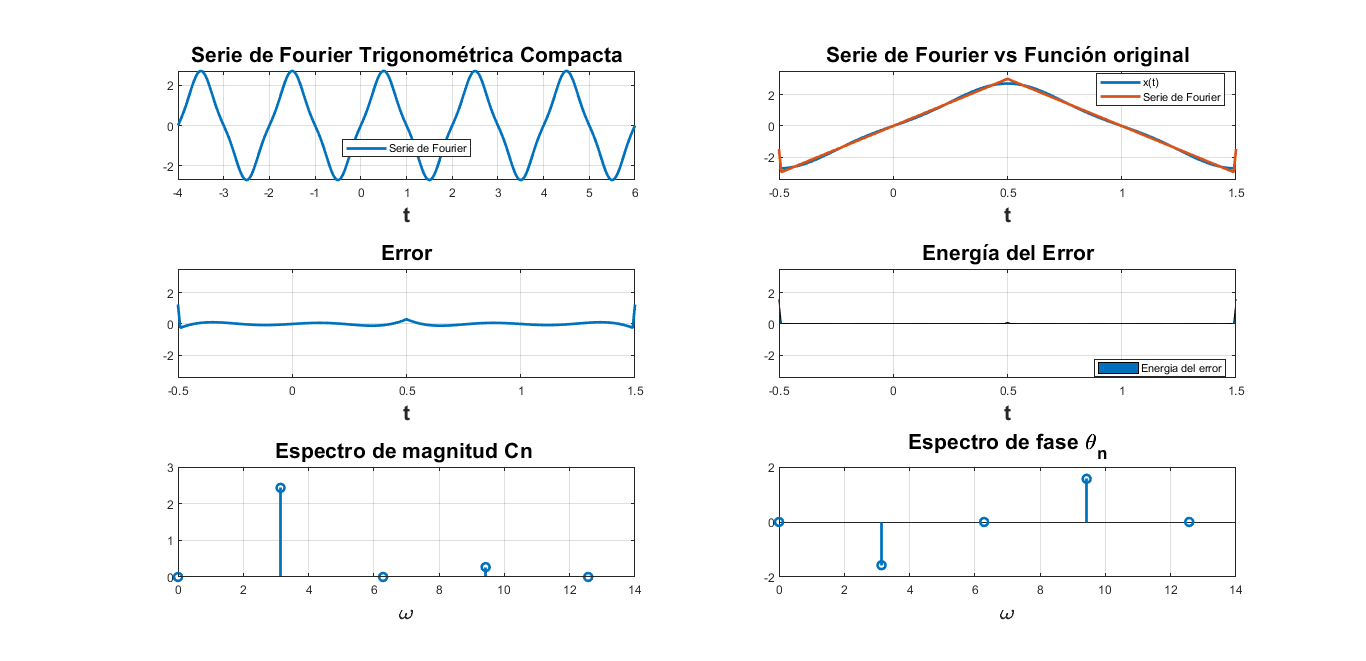
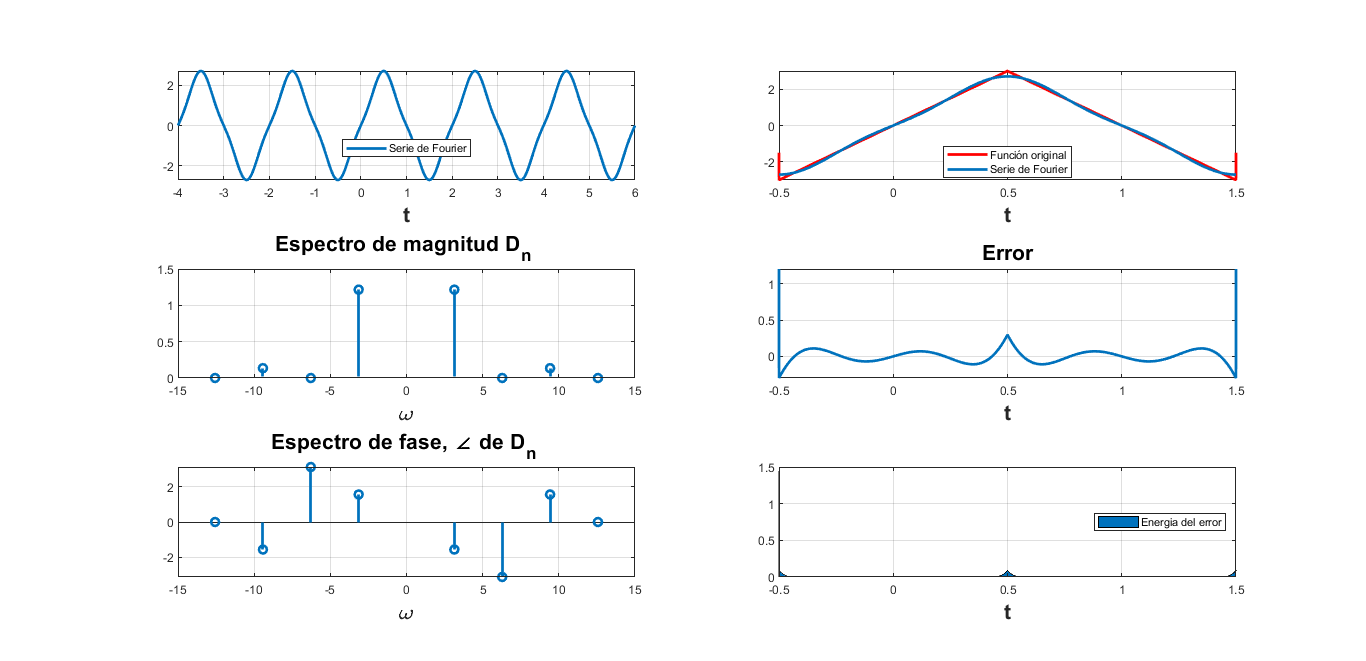
REV2

diff --git a/ASySPrac05CarlosMartinez.html b/ASySPrac05CarlosMartinez.html
@@ -6,7 +6,7 @@
    <!--
 This HTML was auto-generated from MATLAB code.
 To make changes, update the MATLAB code and republish this document.
-      --><title>ASySPrac05CarlosMartinez</title><meta name="generator" content="MATLAB 9.4"><link rel="schema.DC" href="http://purl.org/dc/elements/1.1/"><meta name="DC.date" content="2018-11-23"><meta name="DC.source" content="ASySPrac05CarlosMartinez.m"><style type="text/css">
+      --><title>ASySPrac05CarlosMartinez</title><meta name="generator" content="MATLAB 9.4"><link rel="schema.DC" href="http://purl.org/dc/elements/1.1/"><meta name="DC.date" content="2018-11-24"><meta name="DC.source" content="ASySPrac05CarlosMartinez.m"><style type="text/css">
 html,body,div,span,applet,object,iframe,h1,h2,h3,h4,h5,h6,p,blockquote,pre,a,abbr,acronym,address,big,cite,code,del,dfn,em,font,img,ins,kbd,q,s,samp,small,strike,strong,sub,sup,tt,var,b,u,i,center,dl,dt,dd,ol,ul,li,fieldset,form,label,legend,table,caption,tbody,tfoot,thead,tr,th,td{margin:0;padding:0;border:0;outline:0;font-size:100%;vertical-align:baseline;background:transparent}body{line-height:1}ol,ul{list-style:none}blockquote,q{quotes:none}blockquote:before,blockquote:after,q:before,q:after{content:'';content:none}:focus{outine:0}ins{text-decoration:none}del{text-decoration:line-through}table{border-collapse:collapse;border-spacing:0}
 
 html { min-height:100%; margin-bottom:1px; }
@@ -66,12 +66,172 @@ table td { padding:7px 5px; text-align:left; vertical-align:top; border:1px soli
 
 
 
-  </style></head><body><div class="content"><h1></h1><!--introduction--><p><img vspace="5" hspace="5" src="portada.png" alt=""> </p><!--/introduction--><h2>Contents</h2><div><ul><li><a href="#1">Objetivos</a></li><li><a href="#2">Desarrollo</a></li><li><a href="#3">Ejemplo 6.1</a></li><li><a href="#4">Ejemplo 6.2</a></li><li><a href="#5">Ejemplo 6.4</a></li><li><a href="#6">Apendice A</a></li><li><a href="#7">Referencias</a></li></ul></div><h2 id="1">Objetivos</h2><h2 id="2">Desarrollo</h2><p>Se plantea la soluci&oacute;n a siete problemas, donde cada uno requiere del uso de Matlab como herramienta de c&aacute;lculo y an&aacute;lisis.</p><p>Para cada problema debes de realizar</p><div><ol><li>Realizar el programa de la serie que se indica</li><li>Gr&aacute;fica de la serie de Fourier en un intervalo que muestre 5 repeticiones</li><li>Gr&aacute;fica de la se&ntilde;al y la serie de Fourier para 4 armonicos</li><li>Gr&aacute;fica del error</li><li>Gr&aacute;fica de la energ&iacute;a del error</li><li>Espectro de magnitud  para 4 armonicos</li><li>Espectro de fase para 4 armonicos</li><li>Todo lo anterior para 15 armonicos</li></ol></div><h2 id="3">Ejemplo 6.1</h2><p>Con serie  y espectro trigonometrico, no es necesario entregar el c&oacute;digo, solo la aplicaci&oacute;n al problema especifico, debe de indicar la funci&oacute;n y los valores de sus coeficientes (sin incluir el procedimiento)</p><div><ul><li>Funci&oacute;n: <img src="ASySPrac05CarlosMartinez_eq13118065478009486998.png" alt="$e^{-t/2}$"></li><li><img src="ASySPrac05CarlosMartinez_eq11824749991346166048.png" alt="$T_{0}=\pi$">; <img src="ASySPrac05CarlosMartinez_eq08880996788032574097.png" alt="$\omega_{0}=2$"></li><li><img src="ASySPrac05CarlosMartinez_eq08880996788032574097.png" alt="$\omega_{0}=2$"></li><li><img src="ASySPrac05CarlosMartinez_eq04052079667178548877.png" alt="$a_{0}=\frac{-2}{\pi}(e^{\frac{-\pi}{2}}-1)=0.5042$"></li><li><img src="ASySPrac05CarlosMartinez_eq00625565354475340822.png" alt="$a_{n}=0.504(\frac{2}{1+16n^2})$"></li><li><img src="ASySPrac05CarlosMartinez_eq04108984236777671564.png" alt="$b_{n}=0.504(\frac{8n}{1+16n^2})$"></li><li><img src="ASySPrac05CarlosMartinez_eq06349420774633397513.png" alt="$Sf(t)=0.504+[1+\sum_{n=1}^{\infty}\frac{2}{1+16n^2}(\cos(2nt)+4n\sin(2nt))]$"></li></ul></div><p><b>4 ARMONICOS</b></p><p><img vspace="5" hspace="5" src="E_6_1.PNG" alt=""> </p><p><b>15 ARMONICOS</b></p><p><img vspace="5" hspace="5" src="E_6_1_2.PNG" alt=""> </p><h2 id="4">Ejemplo 6.2</h2><p>Con serie y espectro exponencial y A=3, no es necesario entregar el c&oacute;digo, solo la aplicaci&oacute;n al problema especifico, debe de indicar la funci&oacute;n y los valores de sus coeficientes (sin incluir el procedimiento).</p><div><ul><li>Funci&oacute;n</li></ul></div><p><img vspace="5" hspace="5" src="EC6_2.gif" alt=""> </p><div><ul><li><img src="ASySPrac05CarlosMartinez_eq16266160074245195707.png" alt="$T_{0}=2$">; <img src="ASySPrac05CarlosMartinez_eq16968267925928478875.png" alt="$\omega_{0}=\pi$"></li><li><img src="ASySPrac05CarlosMartinez_eq12351201383937949383.png" alt="$a_{0}=0$"></li><li><img src="ASySPrac05CarlosMartinez_eq18033571242204942981.png" alt="$a_{n}=0$"></li><li><img src="ASySPrac05CarlosMartinez_eq10518071608321475585.png" alt="$b_{n}=\frac{24}{(n\pi)^2} \sin(\frac{n\pi}{2})$"></li><li><img src="ASySPrac05CarlosMartinez_eq07742563118262782240.png" alt="$Sf(t)=\frac{24}{\pi^2}\sum_{n=1}^{\infty }[\cos(n\pi t+\theta_n)]$"></li></ul></div><p><b>4 ARMONICOS</b></p><p><img vspace="5" hspace="5" src="E_6_2_1.PNG" alt=""> </p><p><b>15 ARMONICOS</b></p><p><img vspace="5" hspace="5" src="E_6_2_2.PNG" alt=""> </p><h2 id="5">Ejemplo 6.4</h2><p>Con serie y espectro exponencial,  no es necesario entregar el c&oacute;digo, solo la aplicaci&oacute;n al problema especifico, debe de indicar la funci&oacute;n y los valores de sus coeficientes (sin incluir el procedimiento)</p><div><ul><li>Funci&oacute;n: <img src="ASySPrac05CarlosMartinez_eq06509375914648683501.png" alt="$rect(\frac{t}{\pi})$"></li><li><img src="ASySPrac05CarlosMartinez_eq06506973037403274391.png" alt="$T_{0}=2\pi$">; <img src="ASySPrac05CarlosMartinez_eq12751951983705960039.png" alt="$\omega_{0}=1$"></li><li><img src="ASySPrac05CarlosMartinez_eq00220859804390540809.png" alt="$a_{0}=\frac{1}{2}$"></li><li><img src="ASySPrac05CarlosMartinez_eq18169518009886506725.png" alt="$a_{n}=\frac{2}{n\pi} \sin(\frac{n\pi}{2})$"></li><li><img src="ASySPrac05CarlosMartinez_eq11244947500573341312.png" alt="$b_{n}=0$"></li><li><img src="ASySPrac05CarlosMartinez_eq04844439589351996345.png" alt="$Sf(t)=\frac{1}{2}+\frac{2}{\pi}\sum_{n=1}^{\infty }[\sin(\frac{n\pi}{2})\cos(nt+\theta_n)]$"></li></ul></div><h2 id="6">Apendice A</h2><p>Puede consultar los codigos de programaci&oacute;n de cada uno de los ejercicios en la siguiente <a href="https://drive.google.com/open?id=1M2Llttzbg_FAM7OpAit81kZCiaLKFyxO">carpeta</a></p><h2 id="7">Referencias</h2><div><ol><li>Lathi, B. (2005). <i>Linear Systems and Signals</i>. E.U.A.: Oxford University Press</li><li>Moore, H. (2009). <i>MATLAB for Engineers.</i> E.U.A.: Prentice Hall.</li><li>Ashok Ambardar. (1999). Analog and Digital Signal Processing. M&eacute;xico D. F., M&eacute;xico: BROOKS/COLE PUBLISHING COMPANY.</li><li>Hwei P. Hsu. (2013). Se&ntilde;ales y Sistemas. M&eacute;xico D. F., M&eacute;xico: McGrawHill.</li></ol></div><p class="footer"><br><a href="https://www.mathworks.com/products/matlab/">Published with MATLAB&reg; R2018a</a><br></p></div><!--
+  </style></head><body><div class="content"><h1></h1><!--introduction--><p><img vspace="5" hspace="5" src="portada.png" alt=""> </p><!--/introduction--><h2>Contents</h2><div><ul><li><a href="#1">Objetivos</a></li><li><a href="#2">Introducci&oacute;n</a></li><li><a href="#6">Desarrollo</a></li><li><a href="#7">Ejemplo 6.1</a></li><li><a href="#8">Ejemplo 6.2</a></li><li><a href="#9">Ejemplo 6.4</a></li><li><a href="#10">Ejemplo 6.5</a></li><li><a href="#11">Ejemplo 6.7</a></li><li><a href="#12">Apendice A</a></li><li><a href="#13">Referencias</a></li></ul></div><h2 id="1">Objetivos</h2><div><ul><li>Realizar gr&aacute;ficas de series de Fourier exponenciales y trigonom&eacute;tricas en tiempo continuo</li><li>Manipulaci&oacute;n de instrucciones en MATLAB</li><li>Calculo n&uacute;merico de los coeficientes de Fourier</li></ul></div><h2 id="2">Introducci&oacute;n</h2><p><b>C&aacute;lculo Num&eacute;rico de <img src="ASySPrac05CarlosMartinez_eq03133091047579261816.png" alt="$$D_{n}$"></b></p><p>Podemos calcular los coeficientes <img src="ASySPrac05CarlosMartinez_eq03133091047579261816.png" alt="$$D_{n}$"> utilizando la DFT (Transformada en Tiempo Discreto de Fourier), la cual utiliza valores de una se&ntilde;al peri&oacute;dica <img src="ASySPrac05CarlosMartinez_eq06787901769351252476.png" alt="$$x(t)$"> en un periodo. El intervalo de muestra es <img src="ASySPrac05CarlosMartinez_eq02589007036273142695.png" alt="$$T$"> segundos. Por ende, no hay un <img src="ASySPrac05CarlosMartinez_eq08690732402086695052.png" alt="$$N_{0}=\frac{T_{0}}{T}$"> n&uacute;mero de valores en un periodo <img src="ASySPrac05CarlosMartinez_eq06981539848353791525.png" alt="$$T_{0}$">. Para encontrar la relaci&oacute;n entre <img src="ASySPrac05CarlosMartinez_eq05748192556839433106.png" alt="$$D_{0}$"> y los valores de <img src="ASySPrac05CarlosMartinez_eq06787901769351252476.png" alt="$$x(t)$">, consid&eacute;rese lo siguiente:</p><p><img src="ASySPrac05CarlosMartinez_eq07636666084664264127.png" alt="$$D_{n}= \frac{1}{T_{0}} \int_{T_{0}}^{ }x(t) e^{-jn\omega_{0}t} dt$"></p><p><img src="ASySPrac05CarlosMartinez_eq06895279643630208614.png" alt="$$=\lim_{T\rightarrow 0}\frac{1}{N_{0}T}\sum_{k=0}^{N_{0}-1}x(kT)e^{-jn\omega _{0}kT} T$"></p><p><img src="ASySPrac05CarlosMartinez_eq08715929903193946711.png" alt="$$=\lim_{T\rightarrow 0}\frac{1}{N_{0}}\sum_{k=0}^{N_{0}-1}x(kT)e^{-jn\Omega _{0}k}$"></p><p>(a)</p><p>Donde <img src="ASySPrac05CarlosMartinez_eq03720239181881603886.png" alt="$$x(KT)$"> es el <img src="ASySPrac05CarlosMartinez_eq15696396272955440062.png" alt="$$k$">-&eacute;simo valor de <img src="ASySPrac05CarlosMartinez_eq06787901769351252476.png" alt="$$x(t)$"> y</p><p><img src="ASySPrac05CarlosMartinez_eq08690732402086695052.png" alt="$$N_{0}=\frac{T_{0}}{T}$">   <img src="ASySPrac05CarlosMartinez_eq07215256263371917978.png" alt="$$\Omega_{0}=\omega_{0}T=\frac{2\pi}{N_{0}}$"></p><p>(b)</p><p>En la pr&aacute;ctica, es imposible hacer que <img src="ASySPrac05CarlosMartinez_eq15246491081815649258.png" alt="$$T\rightarrow 0$"> al calcular el lado derecho de la integral de la ecuaci&oacute;n (a). Se puede hacer una <img src="ASySPrac05CarlosMartinez_eq02589007036273142695.png" alt="$$T$"> peque&ntilde;a, aproximarla, pero no hacerla 0, lo cual causar&aacute; que los valores se incrementen sin l&iacute;mite. Entonces, se puede ignorar este l&iacute;mite en <img src="ASySPrac05CarlosMartinez_eq02589007036273142695.png" alt="$$T$"> en la ecuaci&oacute;n (a) con el entendimiento impl&iacute;cito de que <img src="ASySPrac05CarlosMartinez_eq02589007036273142695.png" alt="$$T$"> es razonablemente peque&ntilde;o. Cualquier valor no igual a cero de <img src="ASySPrac05CarlosMartinez_eq02589007036273142695.png" alt="$$T$"> causar&aacute; un error de c&aacute;lculo, el cual es inevitable en cualquier evaluaci&oacute;n num&eacute;rica de la integral. El error resultante del valor no igual a cero <img src="ASySPrac05CarlosMartinez_eq02589007036273142695.png" alt="$$T$"> se llama error de interferencia.</p><p><img src="ASySPrac05CarlosMartinez_eq12280995613715959205.png" alt="$$D_{n}=\frac{1}{N_{0}}\sum_{k=0}^{N_{0}-1}x(kT)e^{-jn\Omega _{0}k}$"></p><p>(c)</p><p>Ahora, de la ecuaci&oacute;n (b), <img src="ASySPrac05CarlosMartinez_eq10515223849776201851.png" alt="$$\Omega_{0}N_{0}=2\pi$">. Por ende, <img src="ASySPrac05CarlosMartinez_eq13755088688593220289.png" alt="$$e^{j\Omega_{0}(k+N_{0})}=e^{j\Omega_{0}k}$">, y por la ecuaci&oacute;n (c), se determina que</p><p><img src="ASySPrac05CarlosMartinez_eq00108646522931943518.png" alt="$$D_{n+N_{0}}=D_{0}$"></p><p>(d)</p><p>La propiedad de periodicidad, <img src="ASySPrac05CarlosMartinez_eq18318370555517747369.png" alt="$$D_{n+N_{0}}=D_{n}$">, establece que m&aacute;s all&aacute; de <img src="ASySPrac05CarlosMartinez_eq02263361073932095650.png" alt="$$n=\frac{N_{0}}{2}$">, los coeficientes representan valores para <img src="ASySPrac05CarlosMartinez_eq12418905687293652924.png" alt="$$n$"> negativas. Por ejemplo, cuando <img src="ASySPrac05CarlosMartinez_eq07114384757973001169.png" alt="$$N_{0}=32, D_{17}=D_{-15},D_{18}=D_{-14}, ..., D_{31}=D_{-1}$">. El ciclo se repite de nuevo desde <img src="ASySPrac05CarlosMartinez_eq15275483857193680460.png" alt="$$n=32$"> en adelante.</p><p>Una vez establecido lo anterior, se proceder&aacute; a utilizar el algoritmo de la Transformada R&aacute;pida de Fourier.</p><p><b>Ejemplo C6.4</b> Realizar el c&aacute;lculo y graficar los espectros trigonom&eacute;tricos y exponenciales de Fourier para la se&ntilde;al peri&oacute;dica en la figura 1).</p><p><img vspace="5" hspace="5" src="fig6_2.PNG" alt=""> </p><p>Figura 1): <img src="ASySPrac05CarlosMartinez_eq06992645021434473590.png" alt="$$e^{\frac{-t}{2}}$"></p><p>Los valores de <img src="ASySPrac05CarlosMartinez_eq06787901769351252476.png" alt="$$x(t)$"> comienzan en <img src="ASySPrac05CarlosMartinez_eq13843076059956794891.png" alt="$$t=0$"> y el &uacute;ltimo <img src="ASySPrac05CarlosMartinez_eq10571137224007435704.png" alt="$$N_{0}$">-&eacute;simo valor est&aacute; en <img src="ASySPrac05CarlosMartinez_eq03844446236828016518.png" alt="$$t=T_{0}-t$">. En los puntos de discontinuidades, el valor de la se&ntilde;al es el promedio de los valores de la funci&oacute;n en ambos lados de la discontinuidad. Por ello, el valor de la se&ntilde;al en <img src="ASySPrac05CarlosMartinez_eq13843076059956794891.png" alt="$$t=0$"> no es <img src="ASySPrac05CarlosMartinez_eq16330746974462534095.png" alt="$$1$">, sino <img src="ASySPrac05CarlosMartinez_eq03400279375274242494.png" alt="$$\frac{e^{\frac{-\pi}{2}}+1}{2}=0.604$">.</p><p>Para determinar el valor <img src="ASySPrac05CarlosMartinez_eq10571137224007435704.png" alt="$$N_{0}$">, se requiere que <img src="ASySPrac05CarlosMartinez_eq03133091047579261816.png" alt="$$D_{n}$"> para <img src="ASySPrac05CarlosMartinez_eq12069270178252804518.png" alt="$$n\geq \frac{N_{0}}{2}$"> sea omisible. Debido a que <img src="ASySPrac05CarlosMartinez_eq06787901769351252476.png" alt="$$x(t)$"> tiene una discontinuidad de salto, <img src="ASySPrac05CarlosMartinez_eq03133091047579261816.png" alt="$$D_{n}$"> decrece lentamente tal como <img src="ASySPrac05CarlosMartinez_eq07780359900859401847.png" alt="$$\frac{1}{n}$">. Por consiguiente, escoger <img src="ASySPrac05CarlosMartinez_eq01860315777495353505.png" alt="$$N_{0}=200$"> es aceptable porque el <i>cien</i> <img src="ASySPrac05CarlosMartinez_eq08790595157310007747.png" alt="$$\frac{N_{0}}{2}$"> <i>&eacute;simo</i> arm&oacute;nico es aproximadamente <img src="ASySPrac05CarlosMartinez_eq03937376032575191794.png" alt="$$1\%$"> del fundamental. Sin embargo, tambi&eacute;n se requiere <img src="ASySPrac05CarlosMartinez_eq10571137224007435704.png" alt="$$N_{0}$"> con potencia <img src="ASySPrac05CarlosMartinez_eq11130003120088913495.png" alt="$$2$">. Por ello, se toma <img src="ASySPrac05CarlosMartinez_eq14246196360969256404.png" alt="$$N_{0}=256=2$">.</p><p><b>Primero, se establecen los par&aacute;metros b&aacute;sicos:</b></p><pre class="codeinput">T_0=pi;
+N_0=256;
+T=T_0/N_0;
+t=(0:T:T*(N_0-1))';
+M=10;
+x=exp(-t/2);
+x(1)=(exp(-pi/2)+1)/2;
+</pre><p><b>Despu&eacute;s, la Transformada en Tiempo Discreto de Fourier se calcula en t&eacute;rminos de la funci&oacute;n <img src="ASySPrac05CarlosMartinez_eq17080548601280760336.png" alt="$$fft$">, se usa para aproximar el espectro exponencial de Fourier comprendido entre <img src="ASySPrac05CarlosMartinez_eq02628528386322507141.png" alt="$$-M\leq n \leq M$"></b></p><pre class="codeinput">D_n = fft (x)/N_0;
+n = [-N_0/2:N_0/2-1]';
+clf;
+subplot (2, 2, 1);
+stem(n, abs(fftshift (D_n)),<span class="string">'k'</span>);
+axis ([-M M -.1 .6]);
+xlabel(<span class="string">'n'</span>);
+ylabel(<span class="string">'|D_n|'</span>);
+subplot (2, 2, 2);
+stem(n, angle(fftshift(D_n)),<span class="string">'k'</span>);
+axis([-M M -pi pi]);
+xlabel (<span class="string">'n'</span>);
+ylabel(<span class="string">'\angle D n [rad]'</span>);
+<span class="comment">% *El espectro de Fourier aproximado en el intervalo $$0\leq n \leq M$ sigue a continuaci&oacute;n.*</span>
+n = [0:M];
+C_n(1) = abs(D_n(1));
+C_n(2:M+1) = 2*abs (D_n(2:M+1));
+theta_n(1) = angle(D_n(1));
+theta_n(2:M+1) = angle(D_n(2:M+1));
+subplot (2, 2, 3);
+stem(n,C_n,<span class="string">'k'</span>);
+xlabel (<span class="string">'n'</span>);
+ylabel(<span class="string">'C_n'</span>);
+subplot (2, 2, 4);
+stem(n,theta_n,<span class="string">'k'</span>);
+xlabel (<span class="string">'n'</span>);
+ylabel(<span class="string">'\theta n [rad]'</span>);
+</pre><img vspace="5" hspace="5" src="ASySPrac05CarlosMartinez_01.png" alt=""> <h2 id="6">Desarrollo</h2><p>Se plantea la soluci&oacute;n a siete problemas, donde cada uno requiere del uso de Matlab como herramienta de c&aacute;lculo y an&aacute;lisis.</p><p>Para cada problema debes de realizar</p><div><ol><li>Realizar el programa de la serie que se indica</li><li>Gr&aacute;fica de la serie de Fourier en un intervalo que muestre 5 repeticiones</li><li>Gr&aacute;fica de la se&ntilde;al y la serie de Fourier para 4 armonicos</li><li>Gr&aacute;fica del error</li><li>Gr&aacute;fica de la energ&iacute;a del error</li><li>Espectro de magnitud  para 4 armonicos</li><li>Espectro de fase para 4 armonicos</li><li>Todo lo anterior para 15 armonicos</li></ol></div><h2 id="7">Ejemplo 6.1</h2><p>Con serie  y espectro trigonometrico, no es necesario entregar el c&oacute;digo, solo la aplicaci&oacute;n al problema especifico, debe de indicar la funci&oacute;n y los valores de sus coeficientes (sin incluir el procedimiento)</p><div><ul><li>Funci&oacute;n: <img src="ASySPrac05CarlosMartinez_eq13118065478009486998.png" alt="$e^{-t/2}$"></li><li><img src="ASySPrac05CarlosMartinez_eq11824749991346166048.png" alt="$T_{0}=\pi$">; <img src="ASySPrac05CarlosMartinez_eq08880996788032574097.png" alt="$\omega_{0}=2$"></li><li><img src="ASySPrac05CarlosMartinez_eq08880996788032574097.png" alt="$\omega_{0}=2$"></li><li><img src="ASySPrac05CarlosMartinez_eq04052079667178548877.png" alt="$a_{0}=\frac{-2}{\pi}(e^{\frac{-\pi}{2}}-1)=0.5042$"></li><li><img src="ASySPrac05CarlosMartinez_eq00625565354475340822.png" alt="$a_{n}=0.504(\frac{2}{1+16n^2})$"></li><li><img src="ASySPrac05CarlosMartinez_eq04108984236777671564.png" alt="$b_{n}=0.504(\frac{8n}{1+16n^2})$"></li><li><img src="ASySPrac05CarlosMartinez_eq06349420774633397513.png" alt="$Sf(t)=0.504+[1+\sum_{n=1}^{\infty}\frac{2}{1+16n^2}(\cos(2nt)+4n\sin(2nt))]$"></li></ul></div><p><b>4 ARMONICOS</b></p><p><img vspace="5" hspace="5" src="E_6_1.PNG" alt=""> </p><p><b>15 ARMONICOS</b></p><p><img vspace="5" hspace="5" src="E_6_1_2.PNG" alt=""> </p><h2 id="8">Ejemplo 6.2</h2><p>Con serie y espectro exponencial y A=3, no es necesario entregar el c&oacute;digo, solo la aplicaci&oacute;n al problema especifico, debe de indicar la funci&oacute;n y los valores de sus coeficientes (sin incluir el procedimiento).</p><div><ul><li>Funci&oacute;n</li></ul></div><p><img vspace="5" hspace="5" src="EC6_2.gif" alt=""> </p><div><ul><li><img src="ASySPrac05CarlosMartinez_eq16266160074245195707.png" alt="$T_{0}=2$">; <img src="ASySPrac05CarlosMartinez_eq16968267925928478875.png" alt="$\omega_{0}=\pi$"></li><li><img src="ASySPrac05CarlosMartinez_eq12351201383937949383.png" alt="$a_{0}=0$"></li><li><img src="ASySPrac05CarlosMartinez_eq18033571242204942981.png" alt="$a_{n}=0$"></li><li><img src="ASySPrac05CarlosMartinez_eq10518071608321475585.png" alt="$b_{n}=\frac{24}{(n\pi)^2} \sin(\frac{n\pi}{2})$"></li><li><img src="ASySPrac05CarlosMartinez_eq07742563118262782240.png" alt="$Sf(t)=\frac{24}{\pi^2}\sum_{n=1}^{\infty }[\cos(n\pi t+\theta_n)]$"></li></ul></div><p><b>4 ARMONICOS</b></p><p><img vspace="5" hspace="5" src="E_6_2_1.PNG" alt=""> </p><p><b>15 ARMONICOS</b></p><p><img vspace="5" hspace="5" src="E_6_2_2.PNG" alt=""> </p><h2 id="9">Ejemplo 6.4</h2><p>Con serie y espectro exponencial,  no es necesario entregar el c&oacute;digo, solo la aplicaci&oacute;n al problema especifico, debe de indicar la funci&oacute;n y los valores de sus coeficientes (sin incluir el procedimiento)</p><div><ul><li>Funci&oacute;n: <img src="ASySPrac05CarlosMartinez_eq06509375914648683501.png" alt="$rect(\frac{t}{\pi})$"></li><li><img src="ASySPrac05CarlosMartinez_eq06506973037403274391.png" alt="$T_{0}=2\pi$">; <img src="ASySPrac05CarlosMartinez_eq12751951983705960039.png" alt="$\omega_{0}=1$"></li><li><img src="ASySPrac05CarlosMartinez_eq00220859804390540809.png" alt="$a_{0}=\frac{1}{2}$"></li><li><img src="ASySPrac05CarlosMartinez_eq18169518009886506725.png" alt="$a_{n}=\frac{2}{n\pi} \sin(\frac{n\pi}{2})$"></li><li><img src="ASySPrac05CarlosMartinez_eq11244947500573341312.png" alt="$b_{n}=0$"></li><li><img src="ASySPrac05CarlosMartinez_eq04844439589351996345.png" alt="$Sf(t)=\frac{1}{2}+\frac{2}{\pi}\sum_{n=1}^{\infty }[\sin(\frac{n\pi}{2})\cos(nt+\theta_n)]$"></li></ul></div><h2 id="10">Ejemplo 6.5</h2><p>Con serie y espectro exponencial, no es necesario entregar el c&oacute;digo, solo la aplicaci&oacute;n al problema especifico, debe de indicar la funci&oacute;n y los valores de sus coeficientes (sin incluir el procedimiento)</p><div><ul><li>Funci&oacute;n: <img src="ASySPrac05CarlosMartinez_eq09154512819811520631.png" alt="$e^{\frac{-t}{2}}$"></li><li><img src="ASySPrac05CarlosMartinez_eq11824749991346166048.png" alt="$T_{0}=\pi$">; <img src="ASySPrac05CarlosMartinez_eq08880996788032574097.png" alt="$\omega_{0}=2$"></li><li><img src="ASySPrac05CarlosMartinez_eq07697493664557799756.png" alt="$D_0=0.5042$"></li><li><img src="ASySPrac05CarlosMartinez_eq04077528487602250096.png" alt="$D_n=\frac{0.5042}{1+4nj}$"></li><li><img src="ASySPrac05CarlosMartinez_eq05177627897546240063.png" alt="$Sf(t)=0.5042+\sum_{-\infty}^{\infty}\frac{1}{1+4nj}e^{2ntj}$"></li></ul></div><p><b>4 ARMONICOS</b></p><p><img vspace="5" hspace="5" src="E_6_5_1.PNG" alt=""> </p><p><b>15 ARMONICOS</b></p><p><img vspace="5" hspace="5" src="E_6_5_2.PNG" alt=""> </p><h2 id="11">Ejemplo 6.7</h2><p>Con serie y espectro exponencial y <img src="ASySPrac05CarlosMartinez_eq04356084194358646376.png" alt="$T_0=3$"> sin incluir la gr&aacute;fica de f, error ni energ&iacute;a del error,  no es necesario entregar el c&oacute;digo solo la aplicaci&oacute;n al problema especifico,debe de indicar la funci&oacute;n y los valores de sus coeficientes (sin incluir el procedimiento)</p><div><ul><li>Funci&oacute;n: <img src="ASySPrac05CarlosMartinez_eq17703627941563290876.png" alt="$x(t)=\sum_{-\infty}^{\infty}\delta(t-nT_0)$"></li><li><img src="ASySPrac05CarlosMartinez_eq16009704780669162202.png" alt="$T_{0}=3$">; <img src="ASySPrac05CarlosMartinez_eq11448675859542939864.png" alt="$\omega_{0}=\frac{2\pi}{3}$"></li><li><img src="ASySPrac05CarlosMartinez_eq02245658498090361801.png" alt="$D_0=1/T_0$"></li><li><img src="ASySPrac05CarlosMartinez_eq10329010378976998573.png" alt="$D_n=1/T_0$"></li><li><img src="ASySPrac05CarlosMartinez_eq13955843625098673415.png" alt="$Sf(t)=\frac{1}{T_0}\sum_{-\infty}^{\infty}e^{\frac{2\pi ntj}{3}}$"></li></ul></div><p><b>4 ARMONICOS</b></p><p><img vspace="5" hspace="5" src="E_6_7_1.PNG" alt=""> </p><p><b>15 ARMONICOS</b></p><p><img vspace="5" hspace="5" src="E_6_7_2.PNG" alt=""> </p><p>Como se puede observar las fraficas son muy similares</p><h2 id="12">Apendice A</h2><p>Puede consultar los codigos de programaci&oacute;n de cada uno de los ejercicios en la siguiente <a href="https://drive.google.com/open?id=1nvvCm9apsITmdnHP2bAvi94BWLWPilXJ">carpeta</a></p><h2 id="13">Referencias</h2><div><ol><li>Lathi, B. (2005). <i>Linear Systems and Signals</i>. E.U.A.: Oxford University Press</li><li>Moore, H. (2009). <i>MATLAB for Engineers.</i> E.U.A.: Prentice Hall.</li><li>Ashok Ambardar. (1999). Analog and Digital Signal Processing. M&eacute;xico D. F., M&eacute;xico: BROOKS/COLE PUBLISHING COMPANY.</li><li>Hwei P. Hsu. (2013). Se&ntilde;ales y Sistemas. M&eacute;xico D. F., M&eacute;xico: McGrawHill.</li></ol></div><p class="footer"><br><a href="https://www.mathworks.com/products/matlab/">Published with MATLAB&reg; R2018a</a><br></p></div><!--
 ##### SOURCE BEGIN #####
 %%
 %
 % <<portada.png>>
 %% Objetivos
+% * Realizar gráficas de series de Fourier exponenciales y trigonométricas
+% en tiempo continuo
+% * Manipulación de instrucciones en MATLAB
+% * Calculo númerico de los coeficientes de Fourier
+%% Introducción
+% *Cálculo Numérico de $$D_{n}$*
+%
+% Podemos calcular los coeficientes $$D_{n}$ utilizando la DFT
+% (Transformada en Tiempo Discreto de Fourier), la cual utiliza valores de
+% una señal periódica $$x(t)$ en un periodo. El intervalo de muestra es
+% $$T$ segundos. Por ende, no hay un $$N_{0}=\frac{T_{0}}{T}$ número de
+% valores en un periodo $$T_{0}$. Para encontrar la relación entre $$D_{0}$
+% y los valores de $$x(t)$, considérese lo siguiente:
+%
+% $$D_{n}= \frac{1}{T_{0}} \int_{T_{0}}^{ }x(t) e^{-jn\omega_{0}t} dt$
+% 
+% $$=\lim_{T\rightarrow
+% 0}\frac{1}{N_{0}T}\sum_{k=0}^{N_{0}-1}x(kT)e^{-jn\omega _{0}kT} T$
+%
+% $$=\lim_{T\rightarrow
+% 0}\frac{1}{N_{0}}\sum_{k=0}^{N_{0}-1}x(kT)e^{-jn\Omega _{0}k}$   
+% 
+% (a)
+% 
+% Donde $$x(KT)$ es el $$k$-ésimo valor de $$x(t)$ y
+%
+% $$N_{0}=\frac{T_{0}}{T}$   $$\Omega_{0}=\omega_{0}T=\frac{2\pi}{N_{0}}$
+%
+% (b)
+%
+% En la práctica, es imposible hacer que $$T\rightarrow 0$ al calcular el
+% lado derecho de la integral de la ecuación (a). Se puede hacer una $$T$
+% pequeña, aproximarla, pero no hacerla 0, lo cual causará que los valores se
+% incrementen sin límite. Entonces, se puede ignorar este límite
+% en $$T$ en la ecuación (a) con el entendimiento implícito de que $$T$ es
+% razonablemente pequeño. Cualquier valor no igual a cero de $$T$ causará
+% un error de cálculo, el cual es inevitable en cualquier evaluación
+% numérica de la integral. El error resultante del valor no igual a cero
+% $$T$ se llama error de interferencia.
+%
+% $$D_{n}=\frac{1}{N_{0}}\sum_{k=0}^{N_{0}-1}x(kT)e^{-jn\Omega _{0}k}$ 
+% 
+% (c)
+%
+% Ahora, de la ecuación (b), $$\Omega_{0}N_{0}=2\pi$. Por ende,
+% $$e^{j\Omega_{0}(k+N_{0})}=e^{j\Omega_{0}k}$, y por la ecuación (c), se
+% determina que 
+%
+% $$D_{n+N_{0}}=D_{0}$
+%
+% (d)
+%
+% La propiedad de periodicidad, $$D_{n+N_{0}}=D_{n}$, establece que más
+% allá de $$n=\frac{N_{0}}{2}$, los coeficientes representan valores para
+% $$n$ negativas. Por ejemplo, cuando $$N_{0}=32,
+% D_{17}=D_{-15},D_{18}=D_{-14}, ..., D_{31}=D_{-1}$. El ciclo se repite de
+% nuevo desde $$n=32$ en adelante. 
+%
+% Una vez establecido lo anterior, se procederá a utilizar el algoritmo de
+% la Transformada Rápida de Fourier.
+% 
+% *Ejemplo C6.4*
+% Realizar el cálculo y graficar los espectros trigonométricos y exponenciales de
+% Fourier para la señal periódica en la figura 1). 
+%
+%
+% 
+% <<fig6_2.PNG>>
+%
+% Figura 1): $$e^{\frac{-t}{2}}$
+% 
+% Los valores de $$x(t)$ comienzan en $$t=0$ y el último $$N_{0}$-ésimo
+% valor está en $$t=T_{0}-t$. En los puntos de discontinuidades, el valor
+% de la señal es el promedio de los valores de la función en ambos lados
+% de la discontinuidad. Por ello, el valor de la señal en $$t=0$ no es
+% $$1$, sino $$\frac{e^{\frac{-\pi}{2}}+1}{2}=0.604$.
+%
+% Para determinar el valor $$N_{0}$, se requiere que $$D_{n}$ para $$n\geq
+% \frac{N_{0}}{2}$ sea omisible. Debido a que $$x(t)$ tiene una
+% discontinuidad de salto, $$D_{n}$ decrece lentamente tal como
+% $$\frac{1}{n}$. Por consiguiente, escoger $$N_{0}=200$ es aceptable
+% porque el _cien_ $$\frac{N_{0}}{2}$ _ésimo_ armónico es aproximadamente $$1\%$
+% del fundamental. Sin embargo, también se requiere $$N_{0}$ con potencia
+% $$2$. Por ello, se toma $$N_{0}=256=2$.
+%
+% *Primero, se establecen los parámetros básicos:*
+%%
+T_0=pi;
+N_0=256;
+T=T_0/N_0;
+t=(0:T:T*(N_0-1))';
+M=10;
+x=exp(-t/2);
+x(1)=(exp(-pi/2)+1)/2;
+%%
+% *Después, la Transformada en Tiempo Discreto de Fourier se calcula en
+% términos de la función $$fft$, se usa para aproximar el espectro
+% exponencial de Fourier comprendido entre $$-M\leq n \leq M$*
+%%
+D_n = fft (x)/N_0; 
+n = [-N_0/2:N_0/2-1]';
+clf;
+subplot (2, 2, 1); 
+stem(n, abs(fftshift (D_n)),'k');
+axis ([-M M -.1 .6]); 
+xlabel('n'); 
+ylabel('|D_n|');
+subplot (2, 2, 2); 
+stem(n, angle(fftshift(D_n)),'k');
+axis([-M M -pi pi]); 
+xlabel ('n'); 
+ylabel('\angle D n [rad]');
+% *El espectro de Fourier aproximado en el intervalo $$0\leq n \leq M$ sigue a continuación.*
+n = [0:M]; 
+C_n(1) = abs(D_n(1)); 
+C_n(2:M+1) = 2*abs (D_n(2:M+1));
+theta_n(1) = angle(D_n(1)); 
+theta_n(2:M+1) = angle(D_n(2:M+1));
+subplot (2, 2, 3); 
+stem(n,C_n,'k');
+xlabel ('n'); 
+ylabel('C_n');
+subplot (2, 2, 4); 
+stem(n,theta_n,'k');
+xlabel ('n'); 
+ylabel('\theta n [rad]');
 %% Desarrollo
 % Se plantea la solución a siete problemas, donde cada uno requiere del
 % uso de Matlab como herramienta de cálculo y análisis.
@@ -139,9 +299,46 @@ table td { padding:7px 5px; text-align:left; vertical-align:top; border:1px soli
 % * $a_{n}=\frac{2}{n\pi} \sin(\frac{n\pi}{2})$
 % * $b_{n}=0$
 % * $Sf(t)=\frac{1}{2}+\frac{2}{\pi}\sum_{n=1}^{\infty }[\sin(\frac{n\pi}{2})\cos(nt+\theta_n)]$
+%% Ejemplo 6.5
+% Con serie y espectro exponencial, no es necesario entregar el código, solo la aplicación al problema especifico,
+% debe de indicar la función y los valores de sus coeficientes (sin incluir el procedimiento)
+% 
+% * Función: $e^{\frac{-t}{2}}$
+% * $T_{0}=\pi$; $\omega_{0}=2$
+% * $D_0=0.5042$
+% * $D_n=\frac{0.5042}{1+4nj}$
+% * $Sf(t)=0.5042+\sum_{-\infty}^{\infty}\frac{1}{1+4nj}e^{2ntj}$
+%
+% *4 ARMONICOS*
+% 
+% <<E_6_5_1.PNG>>
+% 
+% *15 ARMONICOS*
+% 
+% <<E_6_5_2.PNG>>
+% 
+%% Ejemplo 6.7
+% Con serie y espectro exponencial y $T_0=3$ sin incluir la gráfica de f, error ni energía del error,  no es necesario entregar el código
+% solo la aplicación al problema especifico,debe de indicar la función y los valores de sus coeficientes (sin incluir el procedimiento)
+% 
+% * Función: $x(t)=\sum_{-\infty}^{\infty}\delta(t-nT_0)$
+% * $T_{0}=3$; $\omega_{0}=\frac{2\pi}{3}$
+% * $D_0=1/T_0$
+% * $D_n=1/T_0$
+% * $Sf(t)=\frac{1}{T_0}\sum_{-\infty}^{\infty}e^{\frac{2\pi ntj}{3}}$
+%
+% *4 ARMONICOS*
+% 
+% <<E_6_7_1.PNG>>
+% 
+% *15 ARMONICOS*
+% 
+% <<E_6_7_2.PNG>>
+% 
+% Como se puede observar las fraficas son muy similares
 %% Apendice A
 % Puede consultar los codigos de programación de cada uno de los ejercicios
-% en la siguiente <https://drive.google.com/open?id=1M2Llttzbg_FAM7OpAit81kZCiaLKFyxO carpeta>
+% en la siguiente <https://drive.google.com/open?id=1nvvCm9apsITmdnHP2bAvi94BWLWPilXJ carpeta>
 %% Referencias
 % # Lathi, B. (2005). _Linear Systems and Signals_. E.U.A.: Oxford University Press
 % # Moore, H. (2009). _MATLAB for Engineers._ E.U.A.: Prentice Hall.
